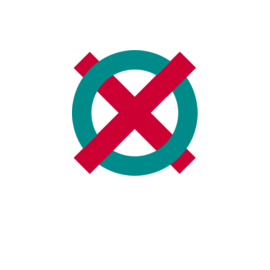
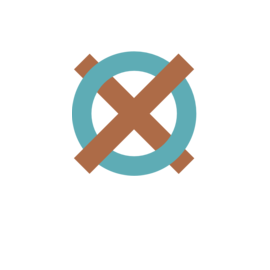
update colors for accessibility

Changed region(s): [[0.2667, 0.1778, 0.7407, 0.6519]]

diff --git a/src/index.css b/src/index.css
@@ -8,12 +8,12 @@ body {
     font-weight: bold;
     font-family: "Century Gothic", Futura, sans-serif;
     margin: 20px;
-    --player_color: var(--blue_color);
-    --blue_color: rgb(0,139,139);
-    --blue_color_hint: rgba(0,139,139, 0.3);
-    --red_color: rgb(220,20,60);
-    --red_color_hint: rgba(220,20,60, 0.3);
+    --blue_color: rgb(94, 172, 181);
+    --blue_color_hint: rgba(94, 172, 181, 0.3);
+    --red_color: rgb(173, 107, 71);
+    --red_color_hint: rgba(173, 107, 71, 0.3);
     --black_color: rgb(0,0,0);
+    --player_color: var(--blue_color);
     --square-height: 44px;
     display: table-cell;
     vertical-align: middle;
